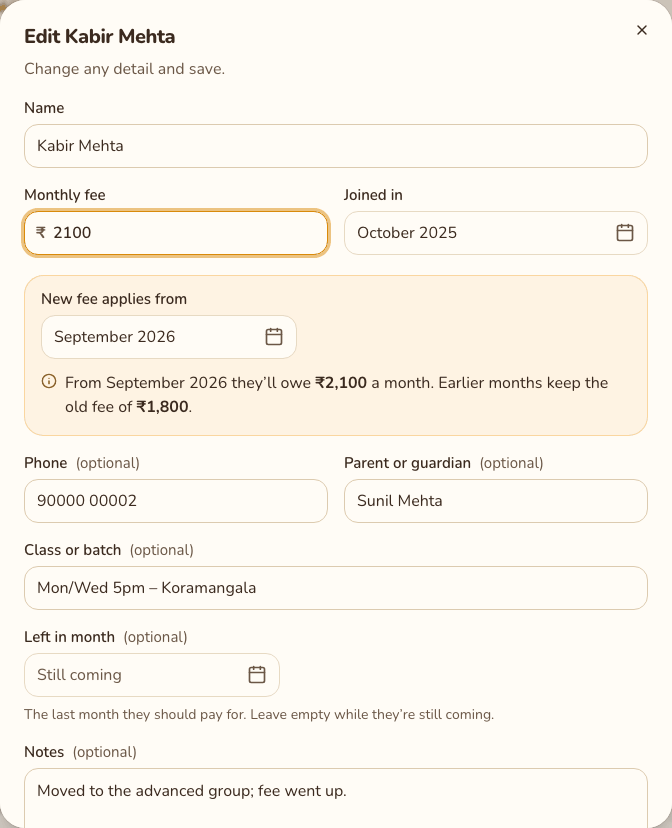
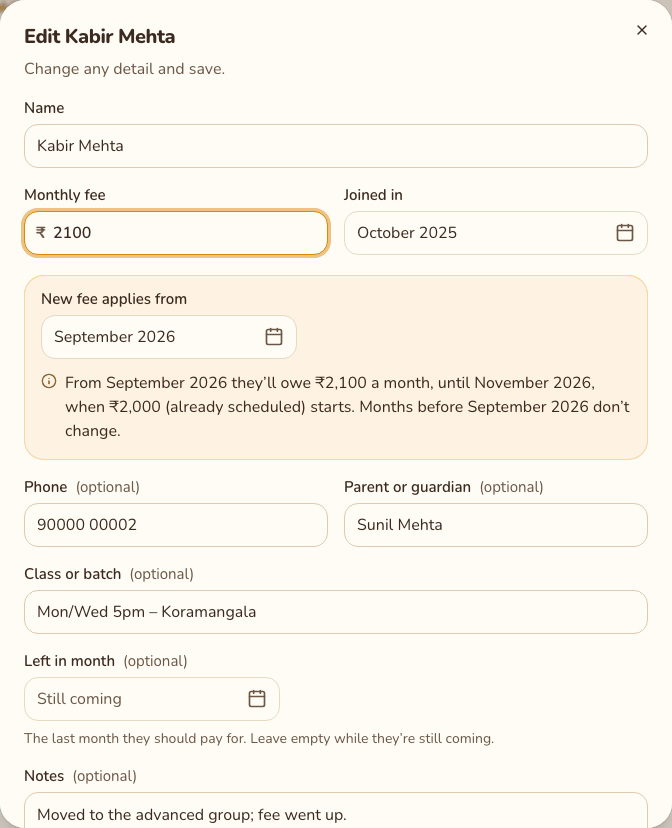
feat(ui): fee history across the Details card; guide pictures for coming back and scheduled fees

diff --git a/frontend/src/pages/student-profile-page.tsx b/frontend/src/pages/student-profile-page.tsx
@@ -510,7 +510,6 @@ function DetailsCard({ student }: { student: StudentDetail }) {
       <dl className="grid gap-x-8 gap-y-4 px-6 pb-6 sm:grid-cols-2">
         <Detail label="Monthly fee">
           <span className="font-bold tabular-nums">{formatRupees(student.monthly_fee_paise)}</span>
-          {student.fee_history.length > 1 && <FeeHistory student={student} />}
         </Detail>
         <Detail label="Joined">
           {formatMonth(student.joined_month)}
@@ -522,6 +521,7 @@ function DetailsCard({ student }: { student: StudentDetail }) {
               : tenurePhrase(student)}
           </span>
         </Detail>
+        {student.fee_history.length > 1 && <FeeHistory student={student} />}
         <Detail label="Class or batch">{student.batch_label ?? <Muted>Not set</Muted>}</Detail>
         <Detail label="Phone">
           {student.phone ? (
@@ -556,59 +556,58 @@ function FeeHistory({ student }: { student: StudentDetail }) {
   const remove = useDeleteFeeChange()
   const rest = toRemove ? fees.filter((f) => f.id !== toRemove.id) : fees
   return (
-    <div className="mt-2">
-      <p className="text-sm font-bold text-muted-foreground" id="fee-history">
+    <div className="space-y-0.5 sm:col-span-2">
+      <dt className="text-sm font-bold text-muted-foreground" id="fee-history">
         Fee history
-      </p>
-      <ul aria-labelledby="fee-history" className="mt-1 grid gap-1 text-sm">
-        {fees.map((f, i) => {
-          const scheduled = i > 0 && f.effective_month > now
-          return (
-            <li key={f.id} className="flex min-h-8 flex-wrap items-center gap-x-2">
-              <span className={cn('tabular-nums', f.amount_paise === 0 && 'text-muted-foreground')}>
-                <span className="font-semibold">
-                  {f.amount_paise === 0 ? 'No fee' : formatRupees(f.amount_paise)}
-                </span>{' '}
-                from {formatMonthShort(f.effective_month)}
-              </span>
-              {scheduled && (
-                <>
-                  <span className="text-muted-foreground">· not started yet</span>
-                  <Button
-                    variant="ghost"
-                    size="sm"
-                    className="h-7 px-2 text-owed hover:bg-owed-soft hover:text-owed"
-                    onClick={() => setToRemove(f)}
-                    aria-label={`Remove the fee change from ${formatMonth(f.effective_month)}`}
+      </dt>
+      <dd>
+        <ul aria-labelledby="fee-history" className="grid text-base">
+          {fees.map((f, i) => {
+            const scheduled = i > 0 && f.effective_month > now
+            return (
+              <li key={f.id} className="flex min-h-8 flex-wrap items-center gap-x-2">
+                <span className="tabular-nums">
+                  <span
+                    className={cn('font-semibold', f.amount_paise === 0 && 'text-muted-foreground')}
                   >
-                    Remove
-                  </Button>
-                </>
-              )}
-            </li>
-          )
-        })}
-      </ul>
+                    {f.amount_paise === 0 ? 'No fee' : formatRupees(f.amount_paise)}
+                  </span>{' '}
+                  <span className="text-muted-foreground">
+                    from {formatMonthShort(f.effective_month)}
+                  </span>
+                </span>
+                {scheduled && (
+                  <>
+                    <span className="text-sm text-muted-foreground">(not started yet)</span>
+                    <Button
+                      variant="ghost"
+                      size="sm"
+                      className="h-7 px-2 text-owed hover:bg-owed-soft hover:text-owed"
+                      onClick={() => setToRemove(f)}
+                      aria-label={`Remove the fee change from ${formatMonth(f.effective_month)}`}
+                    >
+                      Remove
+                    </Button>
+                  </>
+                )}
+              </li>
+            )
+          })}
+        </ul>
+      </dd>
       <ConfirmDialog
         open={toRemove !== null}
         onOpenChange={(open) => !open && setToRemove(null)}
         title={
           toRemove &&
-          `Remove the ${toRemove.amount_paise === 0 ? 'no-fee' : formatRupees(toRemove.amount_paise)} change from ${formatMonth(toRemove.effective_month)}?`
+          `Remove the ${toRemove.amount_paise === 0 ? 'no-fee change' : `${formatRupees(toRemove.amount_paise)} fee`} from ${formatMonth(toRemove.effective_month)}?`
         }
         confirmLabel="Remove fee change"
         pendingLabel="Removing…"
         description={
           toRemove && (
             <p>
-              After this:{' '}
-              {newFeeSentence(
-                rest,
-                toRemove.effective_month,
-                feeAt(rest, toRemove.effective_month),
-                now,
-              )}{' '}
-              Nothing else changes.
+              After this, {afterRemoving(rest, toRemove.effective_month, now)} Nothing else changes.
             </p>
           )
         }
@@ -622,6 +621,12 @@ function FeeHistory({ student }: { student: StudentDetail }) {
       />
     </div>
   )
+}
+
+/** "from November 2026 they'll owe ₹1,800 a month.": what's left once a fee change is gone. */
+function afterRemoving(rest: FeeChangeRead[], month: string, now: string): string {
+  const sentence = newFeeSentence(rest, month, feeAt(rest, month), now)
+  return sentence.charAt(0).toLowerCase() + sentence.slice(1)
 }
 
 function Muted({ children }: { children: ReactNode }) {

diff --git a/frontend/src/pages/student-profile-page.test.tsx b/frontend/src/pages/student-profile-page.test.tsx
@@ -270,7 +270,7 @@ describe('student profile', () => {
       const items = history.getAllByRole('listitem')
       expect(items.map((li) => li.textContent)).toEqual([
         expect.stringMatching(/^₹1,500 from \w{3} 2025$/),
-        '₹1,800 from Dec 2026· not started yetRemove',
+        '₹1,800 from Dec 2026(not started yet)Remove',
       ])
       // The first (joining) fee can't be removed.
       expect(within(items[0]!).queryByRole('button')).not.toBeInTheDocument()
@@ -280,7 +280,7 @@ describe('student profile', () => {
       )
       const confirm = within(await screen.findByRole('alertdialog'))
       expect(confirm.getByText(/After this/)).toHaveTextContent(
-        'After this: From December 2026 they’ll owe ₹1,500 a month. Nothing else changes.',
+        'After this, from December 2026 they’ll owe ₹1,500 a month. Nothing else changes.',
       )
       await user.click(confirm.getByRole('button', { name: 'Remove fee change' }))
       expect(await screen.findByText('Fee change removed')).toBeInTheDocument()

diff --git a/frontend/e2e/fixes.spec.ts b/frontend/e2e/fixes.spec.ts
@@ -103,7 +103,7 @@ test('a scheduled fee change shows in the message and can be removed from Fee hi
     .getByRole('button', { name: `Remove the fee change from ${formatMonth(later)}` })
     .click()
   const confirm = page.getByRole('alertdialog')
-  await expect(confirm).toContainText(`From ${formatMonth(later)} they’ll owe ₹1,500 a month.`)
+  await expect(confirm).toContainText(`from ${formatMonth(later)} they’ll owe ₹1,500 a month.`)
   await confirm.getByRole('button', { name: 'Remove fee change' }).click()
   await expect(page.getByText('Fee change removed')).toBeVisible()
   await expect(history).toHaveCount(0)
